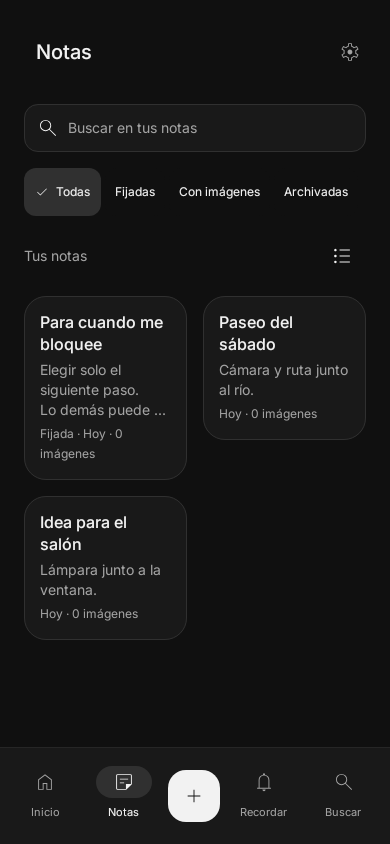
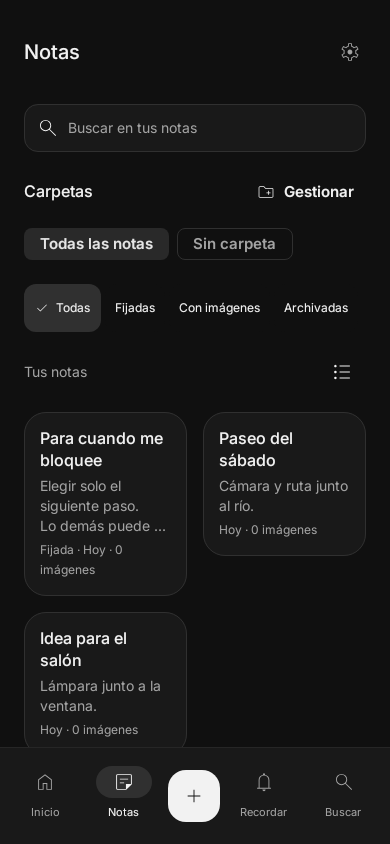
docs: document folders, motion and device verification

diff --git a/docs/pruebas.md b/docs/pruebas.md
@@ -34,19 +34,20 @@ Los filtros mostrados corresponden a las clases presentes en el repositorio.
 
 | Clase | Casos | Comportamiento comprobado |
 | --- | --- | --- |
-| `EditNoteViewModelTest` | 11 | Autoguardados sobre la misma fila, salida inmediata, escritura lenta, fallos y reintento, guardado explícito de recordatorios, salida repetida, reversión del texto, título vacío, borrador restaurado, texto literal `Remember` y fallo de carga. |
-| `NotesViewModelTest` | 7 | Filtros y búsqueda, reintento de carga, error de eliminación, detención de observación sin suscriptores y restauración de consulta/pestaña. |
+| `EditNoteViewModelTest` | 12 | Autoguardados sobre la misma fila, salida inmediata, escritura lenta, fallos y reintento, guardado explícito de recordatorios, salida repetida, reversión del texto, título vacío, borrador restaurado, texto literal `Remember` y fallo de carga; creación de una nota en la carpeta seleccionada. |
+| `NotesViewModelTest` | 9 | Filtros y búsqueda, reintento de carga, error de eliminación, detención de observación sin suscriptores y restauración de consulta/pestaña/carpeta, creación de carpetas y fallo/reintento de movimientos. |
 | `SettingsViewModelTest` | 1 | Conservación del tema persistido cuando falla una escritura y recuperación al reintentar. |
-| `NoteStorageTest` | 4 | Migración 2→3 con SQLite y operaciones de repositorio con IDs estables y orden de consulta. |
+| `NoteStorageTest` | 4 | Migración 2→4 con SQLite y operaciones de repositorio con IDs estables y orden de consulta. |
+| `FolderStorageTest` | 3 | Migración 3→4 conservando todos los campos; creación/renombrado/borrado, movimientos y guardados obsoletos, duplicados con acentos, carpetas desaparecidas y separación de recordatorios. |
 | `UserPreferencesRepositoryTest` | 1 | Migración del tema anterior a DataStore y conservación de una nueva selección al reabrir. |
 | `DestinationTest` | 1 | Serialización y deserialización de destinos con argumentos tipados. |
 | `DateUtilsTest` | 2 | Agrupación de fechas de años distintos y detección de hoy/ayer. |
 | `RichEditorTest` | 11 | Compatibilidad con texto antiguo, serialización, reapertura con negrita, deshacer/rehacer, limpieza parcial, listas, casillas, espaciado, color con selección conservada y estado de la barra y continuación/salida de listas con Intro, subtítulos y conservación de metadatos al deshacer. |
 | `ExampleUnitTest` | 1 | Prueba aritmética de ejemplo del proyecto; no valida funcionalidad de Clean Mind. |
 | `ReminderExportTest` | 5 | Repetición y serialización, programación/recuperación/cancelación de alarmas, TXT UTF-8 y paginación visual de exportación. |
-| `DesignUiTest` | 10 | Capturas locales, privacidad de previews, compartir con pulsación larga, búsqueda/cuadrícula, concentración, completado, ajustes, selección de fecha/hora y formulario independiente con confirmación al descartar. |
+| `DesignUiTest` | 12 | Capturas locales, privacidad de previews, compartir con pulsación larga, búsqueda/cuadrícula, concentración, completado, ajustes, selección de fecha/hora y formulario independiente con confirmación al descartar y filtrado/movimiento de notas entre carpetas y exclusión de Volver en destinos ocultos. |
 
-Total actual: **54 pruebas locales**, de las cuales una es el ejemplo aritmético original. Esta cifra describe la suite actual y debe revisarse al añadir o retirar casos; no es un porcentaje de cobertura de código.
+Total actual: **62 pruebas locales**, de las cuales una es el ejemplo aritmético original. Esta cifra describe la suite actual y debe revisarse al añadir o retirar casos; no es un porcentaje de cobertura de código.
 
 Las pruebas de ViewModel usan `kotlinx-coroutines-test` para controlar la ejecución y el tiempo virtual. `FakeNoteRepository` permite simular lentitud, errores y cambios observables.
 
@@ -65,9 +66,9 @@ Las carpetas `build/` contienen salidas generadas. No forman parte de la documen
 
 ## Estado conocido
 
-La última ejecución local de verificación de código terminó con compilación debug correcta, lint sin errores y 54 pruebas locales superadas, sin fallos ni casos omitidos. Lint conserva avisos sobre versiones de dependencias y recursos.
+La última ejecución local de verificación de código terminó con compilación debug correcta, lint sin errores y 62 pruebas locales superadas, sin fallos ni casos omitidos. Lint conserva avisos sobre versiones de dependencias y recursos.
 
-La comprobación de formato de Android Studio terminó con 88 archivos revisados y conformes al estilo compartido.
+La comprobación de formato de Android Studio terminó con 95 archivos revisados y conformes al estilo compartido.
 
 ## Validación en Xiaomi · 24 de noviembre de 2026
 
@@ -87,6 +88,12 @@ Resultados observados:
 - Ningún fallo del paquete en el registro de crashes conservado por Android durante la revisión.
 
 Esta prueba comprueba una notificación real; no certifica la entrega bajo todas las políticas de batería de MIUI ni tras una detención forzada.
+
+## Ampliación: carpetas, splash y movimiento
+
+En el mismo Xiaomi se comprobó la actualización real del esquema 3 al 4. La comparación de los campos anteriores confirmó que los registros originales permanecen idénticos, con pertenencia inicial nula.
+
+Se creó una carpeta y una nota dentro de ella, se renombró, se movió la nota a Sin carpeta y de vuelta y se eliminó la carpeta conservando el contenido. Se comprobó entrar/salir de concentración y se eliminaron al terminar la nota, la carpeta y su TXT de prueba. El arranque en frío se grabó localmente para revisar la pluma monocroma, sin publicar contenido del dispositivo. Se repitieron navegación, vuelta desde Ajustes y cierre del formulario de recordatorio vacío con la escala de animación normal y desactivada. La configuración original se restauró y el teléfono quedó en Inicio. El registro de crashes no contiene fallos del paquete durante la revisión.
 
 ## Validación pendiente
 

diff --git a/docs/datos-y-migraciones.md b/docs/datos-y-migraciones.md
@@ -15,15 +15,16 @@ Room conserva las notas guardadas. Preferences DataStore conserva la selección 
 | `content` | `String` | Texto de la nota. Puede estar vacío. |
 | `timestamp` | `Long` | Instante de la última escritura realizada por el editor, en milisegundos. |
 | `isReminder` | `Boolean` | Tipo explícito de la nota; por defecto `false`. |
+| `folderId` | `Int?` | Carpeta interna; `null` significa Sin carpeta. |
 
 No hay columnas independientes de creación, vencimiento, etiqueta o estado completado. El formato y las referencias a imágenes se guardan dentro del contenido versionado. El formulario de recordatorios conserva el detalle opcional y la configuración de notificación dentro del documento.
 
 ## Persistencia Room
 
 - Base de datos: `notes_db`.
-- Tabla: `note`.
-- Versión actual: **3**.
-- Esquema exportado: [3.json](../app/schemas/com.example.cleannotes.data.source.NoteDatabase/3.json).
+- Tablas: `note` y `folder`.
+- Versión actual: **4**.
+- Esquema exportado: [4.json](../app/schemas/com.example.cleannotes.data.source.NoteDatabase/4.json).
 - Orden: `timestamp DESC, id DESC`.
 - Columna de tipo: `isReminder INTEGER NOT NULL DEFAULT 0`.
 
@@ -64,14 +65,19 @@ Tras la migración, escribir `Remember` en una nota normal no cambia su tipo.
 
 | Base de datos de partida | Tratamiento |
 | --- | --- |
-| Sin base de datos | Room crea el esquema 3. |
-| Esquema 2 | Se aplica `MIGRATION_2_3`. |
-| Esquema 3 | Se abre sin transformación de versión. |
+| Sin base de datos | Room crea el esquema 4. |
+| Esquema 2 | Se aplican `MIGRATION_2_3` y `MIGRATION_3_4`. |
+| Esquema 3 | Se aplica `MIGRATION_3_4`; las notas conservan sus campos y empiezan sin carpeta. |
+| Esquema 4 | Se abre sin transformación de versión. |
 | Otra versión sin ruta registrada | No hay una migración implementada que garantice su apertura. |
 
 La migración está registrada en `StorageModule`. No hay fallback de migración destructiva. En caso de una versión no soportada, hay que implementar y comprobar la transición antes de distribuir una actualización; no se debe borrar la base de datos como solución automática.
 
-El repositorio exporta actualmente el esquema 3. La prueba de migración recrea la tabla anterior a partir de su estructura conocida; no se incluye un JSON histórico de la versión 2.
+El repositorio conserva los esquemas exportados 3 y 4. La prueba de migración recrea la tabla anterior a partir de su estructura conocida; no se incluye un JSON histórico de la versión 2.
+
+## Migración de la versión 3 a la 4
+
+Añade carpetas con nombres únicos y una clave externa nullable en las notas. La migración reconstruye `note` conservando exactamente los campos anteriores y crea el índice de pertenencia. `ON DELETE SET NULL` conserva las notas al eliminar su carpeta. El guardado lee la pertenencia actual dentro de una transacción para evitar que un borrador obsoleto deshaga movimientos. Consulta [Carpetas](carpetas.md).
 
 ## Preferencias
 

diff --git a/docs/arquitectura.md b/docs/arquitectura.md
@@ -2,7 +2,7 @@
 
 ## Decisión
 
-Clean Mind utiliza **MVVM con flujo unidireccional de datos (UDF), dos capas y un único módulo Gradle**. La decisión se tomó para el alcance actual: notas locales, recordatorios sencillos, búsqueda y una preferencia de apariencia.
+Clean Mind utiliza **MVVM con flujo unidireccional de datos (UDF), dos capas y un único módulo Gradle**. La decisión se tomó para el alcance actual: notas locales, carpetas, recordatorios, búsqueda y una preferencia de apariencia.
 
 La capa de presentación recibe datos mediante repositorios y expone estado a Compose. La capa de datos encapsula Room y DataStore. Los modelos compartidos no dependen de Android.
 
@@ -68,10 +68,10 @@ com/example/cleannotes/
 
 | Componente | Responsabilidad |
 | --- | --- |
-| `MainActivity` | Activar edge-to-edge e instalar `NotesApp`. |
+| `MainActivity` | Instalar la splash nativa, activar edge-to-edge e instalar `NotesApp`. |
 | `NotesApplication` | Punto de entrada de Hilt. |
 | `NotesApp` | Aplicar el tema, gestionar el back stack, obtener ViewModels y conectar estado y callbacks. |
-| `NotesViewModel` | Observar notas, derivar colecciones y búsqueda, conservar consulta/pestaña y gestionar borrado y errores. |
+| `NotesViewModel` | Observar notas/carpetas, derivar colecciones y búsqueda, conservar consulta/pestaña/carpeta y gestionar mutaciones y errores. |
 | `EditNoteViewModel` | Cargar una nota, mantener el borrador, coordinar autoguardado y solicitar la salida mediante estado. |
 | `SettingsViewModel` | Observar la apariencia y gestionar fallos de lectura o escritura. |
 | Pantallas Compose | Representar estado, controlar interacciones visuales locales y emitir callbacks. |
@@ -178,3 +178,5 @@ La agenda de Inicio se presenta con `AgendaDayGroup`, agrupando por `Note.creati
 ## Recordatorios como tareas
 
 `NotesApp` muestra `ReminderEditorScreen` cuando el documento es un recordatorio independiente. Comparte el ViewModel y el repositorio con las notas para conservar compatibilidad de datos; la presentación y el guardado son distintos. `EditNoteViewModel` mantiene el borrador pero no inicia autoguardado para `isReminder`: solo `saveAndClose` persiste la tarea. Las notas normales conservan el debounce de 600 ms. Los recordatorios vinculados a notas mantienen su hoja de configuración y no cambian el tipo de la nota.
+
+Las carpetas usan la misma capa de datos, con `FolderEntity` y una clave externa de nota. Su operación expone carga, error y revisión de persistencia; las hojas solo confirman al completarse la escritura. `AppMotion` centraliza las transiciones y el contenedor guardable de pestañas conserva el scroll durante el cambio de vista. Consulta [Carpetas](carpetas.md) y [Movimiento](movimiento.md).

diff --git a/docs/figma-ui.md b/docs/figma-ui.md
@@ -58,7 +58,7 @@ Una notificación puede pertenecer a una nota normal o a un recordatorio explíc
 
 `DesignUiTest` utiliza Compose y Robolectric con gráficos nativos, sin teléfono ni emulador. Comprueba ocultación del cuerpo, pulsación larga, búsqueda/cuadrícula, entrada/salida de concentración, completar sin eliminar, ajustes y selección de fecha/hora. Las capturas se generan en `/tmp/cleanmind-ui-*.png`; una selección está en [ui-preview](ui-preview/).
 
-La suite completa consta de 54 pruebas locales. La notificación real con la app en segundo plano, los diálogos de fecha/hora, la hoja de compartir y la escritura nativa de PDF se han comprobado en Xiaomi. Cámara, pegado de imágenes y escritura SAF siguen pendientes; consulta [Pruebas](pruebas.md).
+La suite completa consta de 62 pruebas locales. La notificación real con la app en segundo plano, los diálogos de fecha/hora, la hoja de compartir y la escritura nativa de PDF se han comprobado en Xiaomi. Cámara, pegado de imágenes y escritura SAF siguen pendientes; consulta [Pruebas](pruebas.md).
 
 
 ## Ajustes solicitados el 24 de noviembre
@@ -68,3 +68,5 @@ Home deja de utilizar las secciones «A mano» y «Recientes» de Figma y recupe
 La agenda agrupa por `NoteDocument.createdAt`, no por la última edición. El repositorio fija ese valor al crear una nota y lo conserva al guardarla de nuevo, incluso si el borrador omite el campo. Las notas anteriores no tienen historial de creación: se utiliza su timestamp ya almacenado como referencia y se fija en la primera actualización. No se inventa una fecha histórica ni se modifica el esquema Room.
 
 La revisión posterior simplifica los recordatorios independientes en tareas con guardado explícito, los separa de la agenda y sustituye el menú de creación por una hoja Material 3. Estas diferencias respecto de Figma también son intencionadas.
+
+Las carpetas, el arranque monocromo y las transiciones se incorporan por las nuevas peticiones del usuario y amplían la referencia original. Consulta [Carpetas](carpetas.md) y [Movimiento y arranque](movimiento.md).

diff --git a/docs/cambios-clean-mind.md b/docs/cambios-clean-mind.md
@@ -18,10 +18,12 @@ Se conserva `com.example.cleannotes` como identificador y namespace, además de 
 
 ## Verificación
 
-Compilación debug, lint y 54 pruebas locales sin fallos ni omisiones. El formateador de Android Studio valida 88 archivos. Las capturas de [ui-preview](ui-preview/) usan datos sintéticos de Robolectric.
+Compilación debug, lint y 62 pruebas locales sin fallos ni omisiones. El formateador de Android Studio valida 95 archivos. Las capturas de [ui-preview](ui-preview/) usan datos sintéticos de Robolectric.
 
 En Xiaomi se probaron los flujos principales, una notificación con la app en segundo plano y la generación/compartición de texto y PDF. Se eliminaron los datos de prueba y se verificó que los registros originales permanecen idénticos. Consulta [Pruebas](pruebas.md) para los resultados y los casos aún pendientes.
 
 ## Mantener el estilo
 
 Las instrucciones de formato están en [Desarrollo](desarrollo.md#formato-compartido). Los iconos proceden de la fuente oficial de Google; [design](../design/README.md) conserva procedencia, ejes, huella y generador. Las licencias de Inter y Material Symbols están en `app/src/main/assets/licenses/`.
+
+Las ampliaciones posteriores de carpetas, arranque y transiciones se documentan en [Carpetas](carpetas.md) y [Movimiento](movimiento.md).

diff --git a/docs/README.md b/docs/README.md
@@ -16,6 +16,8 @@ Empieza por la [guía de uso](guia-de-uso.md). Explica cómo crear y encontrar n
 
 Consulta también [Cambios de Clean Mind](cambios-clean-mind.md) para el estilo compartido, recursos y verificación en Xiaomi.
 
+Consulta [Carpetas](carpetas.md) para organización y migraciones, y [Movimiento y arranque](movimiento.md) para las transiciones y la splash monocroma.
+
 ## Fuentes de verdad
 
 | Información | Fuente |
@@ -24,7 +26,7 @@ Consulta también [Cambios de Clean Mind](cambios-clean-mind.md) para el estilo 
 | SDK, identificador, versión y configuración del módulo | [Configuración de app](../app/build.gradle.kts). |
 | JVM del daemon | [Criterios de JVM](../gradle/gradle-daemon-jvm.properties). |
 | Comportamiento de pantalla | [Código de presentación](../app/src/main/java/com/example/cleannotes/presentation/). |
-| Esquema actual | [Esquema Room 3](../app/schemas/com.example.cleannotes.data.source.NoteDatabase/3.json). |
+| Esquema actual | [Esquema Room 4](../app/schemas/com.example.cleannotes.data.source.NoteDatabase/4.json). |
 | Reglas de transición entre esquemas | [NoteDatabase](../app/src/main/java/com/example/cleannotes/data/source/NoteDatabase.kt). |
 | Comportamientos comprobados | [Pruebas locales](../app/src/test/java/com/example/cleannotes/). |
 

diff --git a/docs/guia-de-uso.md b/docs/guia-de-uso.md
@@ -74,6 +74,10 @@ Concede el permiso de notificaciones en Android 13 o posterior. Para puntualidad
 
 Pulsa la notificación para abrir su nota o **Posponer** (duración configurable de 1 a 180 minutos) para volver a recibirla. La repetición mantiene su calendario original. Puedes **Completar** un aviso sin eliminar la nota; si es periódico se programa la siguiente ocurrencia.
 
+## Organizar en carpetas
+
+En **Notas → Carpetas → Gestionar** puedes crear o renombrar carpetas. Selecciona una para consultar sus notas; el botón **+ → Nueva nota** utiliza esa carpeta. La pulsación larga de una nota ofrece **Mover a carpeta**. **Sin carpeta** reúne las notas sin asignación. Eliminar una carpeta conserva sus notas. Estas carpetas son independientes del directorio de copias TXT de Ajustes. Consulta [Carpetas](carpetas.md).
+
 ## Buscar
 
 Abre **Buscar** y escribe una parte del título o del contenido. La búsqueda:

diff --git a/README.md b/README.md
@@ -14,6 +14,7 @@ La interfaz está construida con Jetpack Compose y Material 3. La arquitectura u
 - Crear recordatorios con formulario propio de tarea, fecha y hora y guardado explícito.
 - Compartir texto mediante el selector de aplicaciones de Android.
 - Elegir un tema claro, oscuro o vinculado al dispositivo.
+- Arranque monocromo y transiciones breves entre pantallas, pestañas y herramientas.
 - Conservar el tema y restaurar determinados estados de navegación y edición.
 
 Los recordatorios permiten notificaciones configurables, repetición y posposición. Se pueden guardar y compartir TXT/PDF y mantener copias TXT en una carpeta elegida. La app no incluye cuentas, sincronización propia, restauración de copias completas ni papelera. Consulta los detalles en la [guía de uso](docs/guia-de-uso.md).
